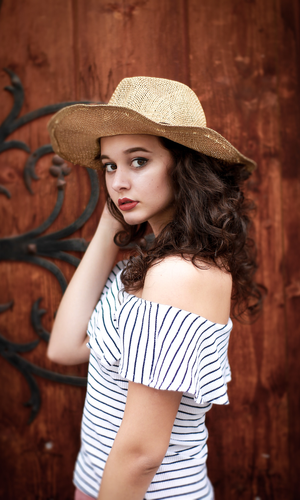
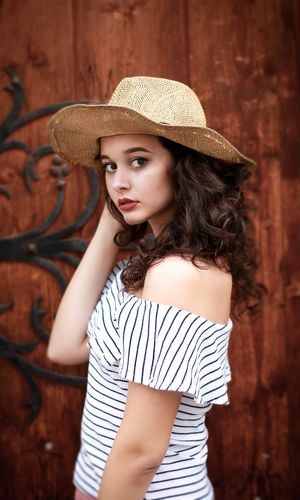
fixed separating resizer sharp functionality

diff --git a/src/routes/engine/resizer.ts b/src/routes/engine/resizer.ts
@@ -1,7 +1,9 @@
 import express from "express";
-import sharp from "sharp";
+import resizerService from "./../../services/resizerService";
+// import sharp from "sharp";
 import { isImgAvailable } from "../../helpers/images";
-import { getPath, writeFiles } from "../../helpers/utils";
+import { getPath } from "../../helpers/utils";
+// import { path } from "path";
 
 const resizer = express.Router();
 
@@ -9,22 +11,22 @@ resizer.get("/", async (req: express.Request, res: express.Response) => {
   try {
     const { height, width, filename } = req.query;
     const imgName = `${filename}_${width}x${height}px`;
-    const imgPath = `${getPath("source")}/${filename}.jpg`;
-    await isImgAvailable(imgName as string, getPath("output")).then((value) => {
-      if (value) {
-        const imgPath = `${getPath("output")}/${imgName}.jpg`;
-        res.type("jpg").sendFile(imgPath);
-      } else {
-        sharp(imgPath)
-          .resize(parseInt(width as string), parseInt(height as string))
-          .png()
-          .toBuffer()
-          .then((data) => {
-            writeFiles(imgName, data as never);
-            res.status(200).type("png").send(data);
-          });
-      }
-    });
+    const imgOutputPath = `${getPath("output")}/${imgName}.jpg`;
+    const availability = await (
+      await isImgAvailable(imgName as string, getPath("output"))
+    ).valueOf();
+    if (availability) {
+      const imgPath = `${getPath("output")}/${imgName}.jpg`;
+      res.type("jpg").sendFile(imgPath);
+    } else {
+      resizerService(
+        filename as string,
+        parseInt(width as string),
+        parseInt(height as string)
+      ).then(() => {
+        res.status(200).type("jpg").sendFile(imgOutputPath);
+      });
+    }
   } catch (error) {
     res.status(404).send(`
         <p>🙂Error🤷♂: =>> <br/>${error} 🙄<p>`);

diff --git a/src/tests/routes/engine/indexSpec.ts b/src/tests/routes/engine/indexSpec.ts
@@ -1,32 +1,28 @@
+import path from "path";
 import sharp from "sharp";
 import supertest from "supertest";
 import { isImgAvailable } from "../../../helpers/images";
-import { getPath, writeFiles } from "../../../helpers/utils";
+import { getPath, source, writeFiles } from "../../../helpers/utils";
 import app from "../../../index";
+import resizerService from "./../../../services/resizerService";
 
 const req = supertest(app);
 
 describe("Testing Image Proccessing APIs", () => {
   const { height, width, filename } = {
     filename: "autom",
-    height: 500,
     width: 300,
+    height: 500,
   };
   const imgName = `${filename}_${width}x${height}px`;
-  const imgPath = `${getPath("source")}/${filename}.jpg`;
+  const imgPath = path.join(source, `/${filename}.jpg`);
   it("Resizer >> Should resize  image with the given dimensions", async () => {
-    await req.get("/api/engine/resizer?filename=autom&width=300&height=500");
+    await resizerService(filename as string, width, height);
+    const availability = await (
+      await isImgAvailable(imgName, getPath("output"))
+    ).valueOf();
 
-    sharp(imgPath)
-      .resize(width, height)
-      .png()
-      .toBuffer()
-      .then((data) => {
-        writeFiles(imgName, data as never);
-      });
-    await isImgAvailable(imgName, getPath("output")).then((value) => {
-      expect(value).toBe(true);
-    });
+    expect(availability).toBe(true);
   });
 
   it("Resizer >> Should render resized image (cached) with the same dimensions", async () => {

diff --git a/src/services/resizerService.ts b/src/services/resizerService.ts
@@ -1,0 +1,29 @@
+import path from "path";
+import sharp from "sharp";
+import { output, source } from "../helpers/utils";
+
+const resizerService = async (
+  filename: string,
+  width: number,
+  height: number
+) => {
+  const imgName = `${filename}_${width}x${height}px`;
+  const sourcePath = path.join(source, `/${filename}.jpg`);
+  const outputPath = path.join(output, `/${imgName}.jpg`);
+  return await new Promise((resolve, reject) => {
+    sharp(sourcePath)
+      .resize(width, height)
+      .toFormat("jpg")
+      .toFile(outputPath)
+      .then(() => {
+        resolve("sucess");
+      })
+      .catch((error) => {
+        reject(error);
+      });
+  }).catch((e) => {
+    console.log(e);
+  });
+};
+
+export default resizerService;

diff --git a/src/helpers/utils.ts b/src/helpers/utils.ts
@@ -5,6 +5,8 @@ import { createCanvas } from "canvas";
 const getPath = (type: string): string =>
   path.join(__dirname, `../../images/${type}`);
 
+const output = path.join(__dirname, "../../images/output");
+const source = path.join(__dirname, "../../images/source");
 const writeFiles = async (
   name: string,
   data: "string | Stream | ArrayBufferView | Iterable<string | ArrayBufferView> | AsyncIterable<string | ArrayBufferView>"
@@ -25,4 +27,4 @@ const createPlaceholder = (width: number, height: number, color: string) => {
   return { context, canvas };
 };
 
-export { writeFiles, createPlaceholder, getPath };
+export { writeFiles, createPlaceholder, getPath, output, source };

diff --git a/src/interfaces/index.ts b/src/interfaces/index.ts
@@ -1,0 +1,5 @@
+export interface ResizerImage {
+  filename: string;
+  width: number;
+  height: number;
+}
